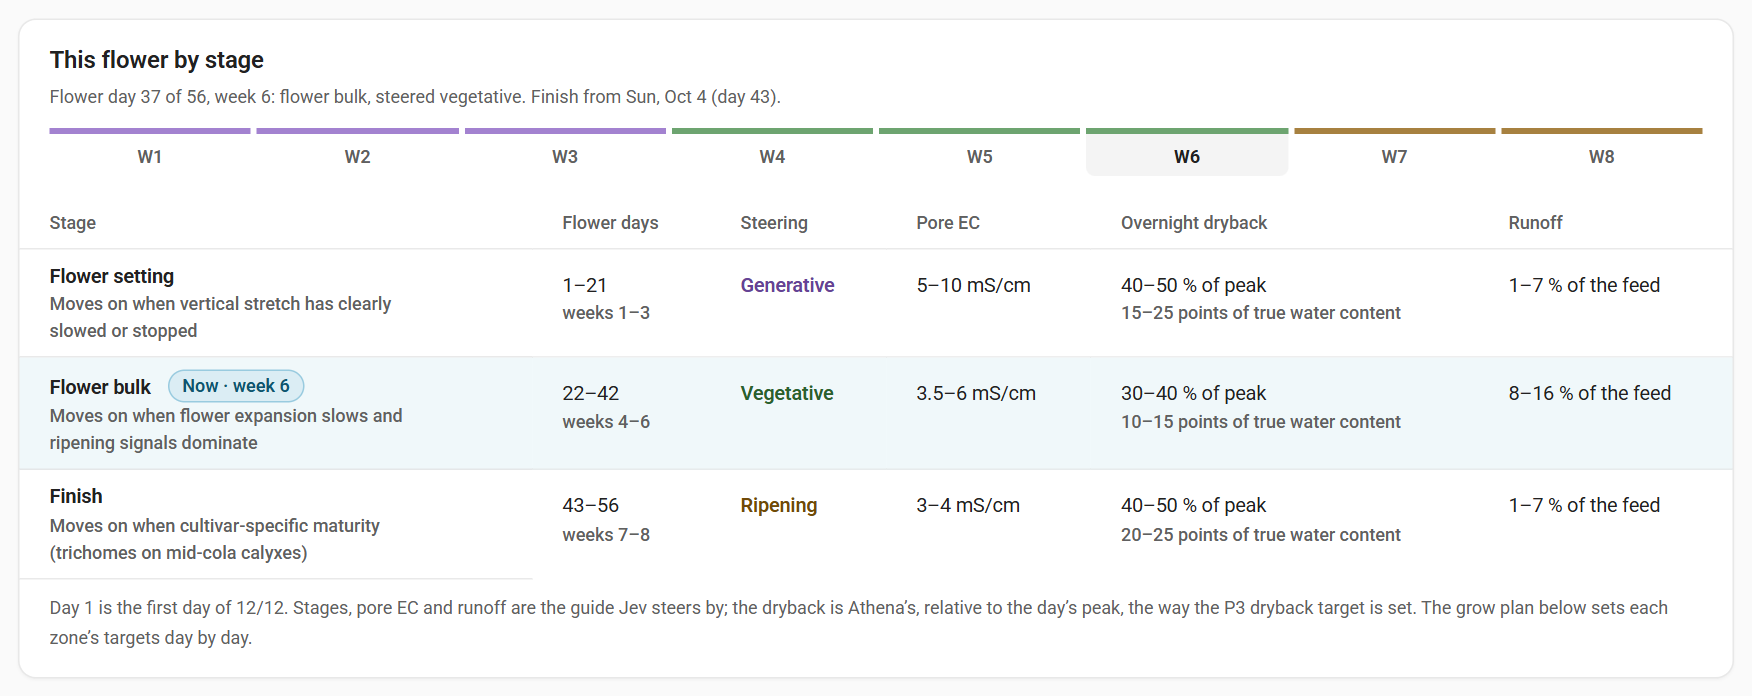
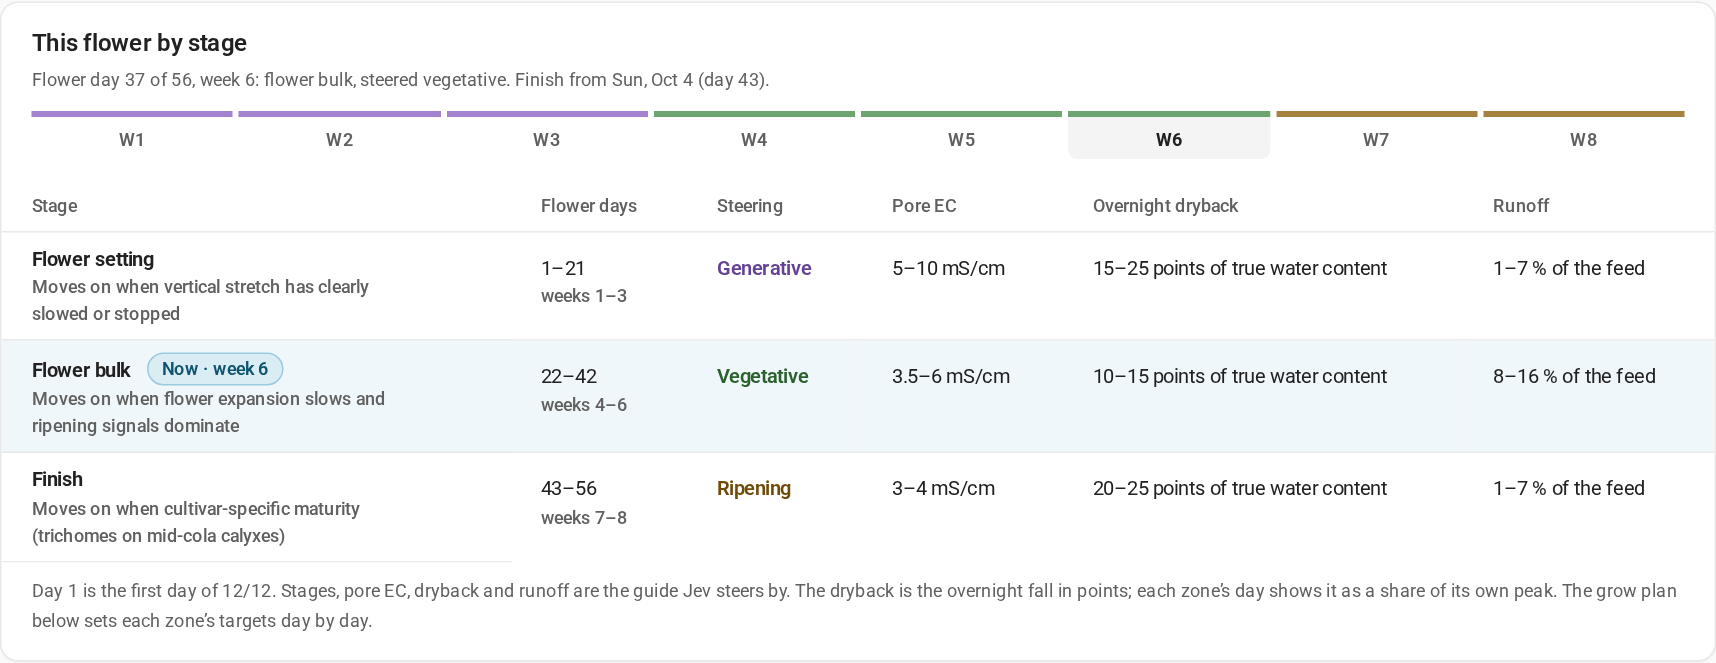
docs: recapture screenshots and describe the neutral dashboard words
Every screenshot is recaptured from the fictional demo. The user guide and
README describe the stage's reference dryback and the "In practice" help
instead of a vendor's chart and handbook, and the notifications example and
demo hint use neutral names.

diff --git a/docs/USER_GUIDE.md b/docs/USER_GUIDE.md
@@ -47,7 +47,7 @@ The demo is an isolated software demonstration. Its readings, history, example p
 5. Open **History**: filter the **Timeline**, read **Water use**, and open **Compare runs** to line up the demo's current run with the previous one by grow week.
 6. Open **Equipment › Setup** to try entity search, room/zone names and mapping review. Demo actions do not call your HA server.
 7. Open **Equipment › Dosing**: dose a pump, make a batch and stop it. The demo's pumps, valves and float move as real ones would, faster than real time.
-8. Open **Settings & help › Notifications**: tick a kind of alert for a phone, save it through the review, and send a test (the demo sends nothing). Add `&notify-user=callum` to the address to open it as Callum, who is not an administrator.
+8. Open **Settings & help › Notifications**: tick a kind of alert for a phone, save it through the review, and send a test (the demo sends nothing). Add `&notify-user=grower` to the address to open it as the grower, who is not an administrator.
 
 A production recipe library starts empty. Demo recipes are interface examples and are stored separately from production libraries. Existing demo libraries, including deliberately empty or corrupt ones, are left unchanged.
 
@@ -81,8 +81,8 @@ Today is one screen on a laptop and about two on a phone.
 
 Open a zone from its card on Today (or `#/zone/N`); the switcher at the top moves between zones.
 
-- **Today in numbers**: moisture and how fast it is drying, pore EC against the stage's band, water today (the zone's total and each plant's share, in the order Settings › Appearance chooses) with its share of the daily water limit (amber from 80 %: routine shots stop at the limit), shots and the last one's time, and the overnight dryback (last night's, or tonight's so far) against Athena's target for the stage. **Next** says what comes next in a few words.
-- **The day's chart**, from lights-on to the next lights-on, in the language of Athena's irrigation phase chart: the light cycle on top, Jev's decisions just below it (filled: code acted on it; outline: advice, no action or refused), P0 to P3 in columns with their badges along the bottom, field capacity as a dashed red line with the runoff zone of the zone's steering, the maintenance band from the re-water point to the peak target, the rescue floor overnight, VWC in blue with every shot as a dot where it started (a ring where a shot was held), the expected rest of the day dashed, and pore EC on the right-hand axis with the stage's band beside it. The VWC axis fits today's readings and the zone's targets. **Compare with** adds yesterday's line or the typical day of the last seven (the choice is remembered in the browser). Point at or tap the chart for the details of a shot, a decision, a phase or a moment.
+- **Today in numbers**: moisture and how fast it is drying, pore EC against the stage's band, water today (the zone's total and each plant's share, in the order Settings › Appearance chooses) with its share of the daily water limit (amber from 80 %: routine shots stop at the limit), shots and the last one's time, and the overnight dryback (last night's, or tonight's so far) against the stage's reference dryback: the stage's band in points of true water content, as a share of this zone's own peak. **Next** says what comes next in a few words.
+- **The day's chart**, from lights-on to the next lights-on, drawn as a phase reference chart: the light cycle on top, Jev's decisions just below it (filled: code acted on it; outline: advice, no action or refused), P0 to P3 in columns with their badges along the bottom, field capacity as a dashed red line with the runoff zone of the zone's steering, the maintenance band from the re-water point to the peak target, the rescue floor overnight, VWC in blue with every shot as a dot where it started (a ring where a shot was held), the expected rest of the day dashed, and pore EC on the right-hand axis with the stage's band beside it. The VWC axis fits today's readings and the zone's targets. **Compare with** adds yesterday's line or the typical day of the last seven (the choice is remembered in the browser). Point at or tap the chart for the details of a shot, a decision, a phase or a moment.
 - **Jev on this zone**: which judges act on it now, the P2 shot size and re-water point Jev may move and within what range (yours, and now), its last change, and its latest decisions here with a tick or a cross where it checked how they worked. **History** opens the timeline on this zone.
 - **Targets**: the zone's targets as the controller uses them, by phase, with Jev's range beside the values it manages. **Edit in Plan** opens them on Plan › Targets.
 - **Probes**: each probe behind the zone's moisture and pore EC, its reading, and whether the zone's reading uses it (see [Probes](#probes)).
@@ -94,7 +94,7 @@ Open a zone from its card on Today (or `#/zone/N`); the switcher at the top move
 When no grow plan owns the room, Targets edits the current targets. An armed grow plan replaces the inputs with its read-only targets; if its required snapshot is missing or stale, the targets show as unavailable rather than falling back to the manual values.
 
 1. Select a room, open **Plan › Targets**, and choose a zone (or **Room** for shared timing).
-2. The zone's targets are one table by phase: P0 morning dryback, P1 ramp-up, P2 maintenance and P3 overnight dryback. Each setting's **?** says what it is, when it acts, what it affects, and what the Athena Handbook says. Where Jev manages a value, its range sits beside it. With Jev's Setpoints judge on the room, the **Auto** switch says what it lets Jev do: Jev manages the P2 shot size and re-water point. The same switch lets the engine's own learner keep the P1 target and field capacity in step with the peak the zone reaches, at most 2 points higher a day and only after the day's ramp reached the target.
+2. The zone's targets are one table by phase: P0 morning dryback, P1 ramp-up, P2 maintenance and P3 overnight dryback. Each setting's **?** says what it is, when it acts, what it affects, and what common practice is. Where Jev manages a value, its range sits beside it. With Jev's Setpoints judge on the room, the **Auto** switch says what it lets Jev do: Jev manages the P2 shot size and re-water point. The same switch lets the engine's own learner keep the P1 target and field capacity in step with the peak the zone reaches, at most 2 points higher a day and only after the day's ramp reached the target.
 3. The other steering mode's own targets (its P3 dryback and EC targets) are one tap down. Substrate, plants, drippers, flow and safety limits are on **Equipment › Setup**.
 4. Type a value, or drag a target on the day's chart beside the table. Both edit the same local draft and respect the HA field's limits and step; the saved reference stays drawn for comparison, and the dark lines are what the zone's probe recorded.
 5. Select **Review changes**, inspect every before/after value, then apply. Only this step sends the reviewed values to HA. Readback errors and unapplied values remain visible; do not assume a partially failed batch succeeded. Drafts survive a refresh and a room change asks before discarding them.
@@ -103,7 +103,7 @@ Room changes can be previewed against a selected zone. A zone's own value takes 
 
 ## Plan › Schedule
 
-**This flower by stage** leads the page: the stages of this flower (flower setting, flower bulk, finish) with their flower days and weeks, what moves each on, steering, pore EC range, Athena's overnight dryback (40–50 % of the peak while setting, 30–40 % in the bulk, 40–50 % in the finish; as points of true water content under it) and runoff, today's week marked and when the next stage starts. Day 1 is the first day of 12/12; the arc is the one Jev steers by. **Validate preview** and **Arm plan** stay in view under it.
+**This flower by stage** leads the page: the stages of this flower (flower setting, flower bulk, finish) with their flower days and weeks, what moves each on, steering, pore EC range, overnight dryback in points of true water content (15–25 while setting, 10–15 in the bulk, 20–25 in the finish) and runoff, today's week marked and when the next stage starts. Day 1 is the first day of 12/12; the arc is the one Jev steers by. **Validate preview** and **Arm plan** stay in view under it.
 
 The planner schedules user-defined profiles by zone and grow day, under **Advanced**. The balance slider interpolates between the profile's explicit vegetative and generative endpoints; it does not select a built-in agronomic prescription. Equal endpoints intentionally produce equal targets at every slider position.
 
@@ -275,7 +275,7 @@ With no phone listed, every push goes to the controller app's `notify_service` o
 ## What the numbers mean
 
 - **Water per zone and per plant**: zone water is the controller's delivered estimate for all the zone's plants; per plant divides it by the plant count. Substrate litres describe the combined pot capacity; they are not water delivered. Runtime estimates multiply dripper flow by run time and respect the controller's duration limit.
-- **Dryback** is relative to the peak: (peak VWC − current VWC) ÷ peak VWC × 100. A 60 % peak and a 10 % dryback target mean 54 % VWC, not 50 %. Athena's overnight dryback targets are set the same way.
+- **Dryback** is relative to the peak: (peak VWC − current VWC) ÷ peak VWC × 100. A 60 % peak and a 10 % dryback target mean 54 % VWC, not 50 %.
 - **Steering balance**: 0 % uses the vegetative endpoint, 100 % the generative one, and values between blend their explicit parameters. Pot size and dripper flow convert shot percentages to volume and time.
 - **Planning versus history**: the day's projected curve is drawn from targets; recorded history comes from Home Assistant's Recorder. Neither an event acknowledgement nor a modelled curve proves physical delivery.
 - **Run comparisons** align runs by grow age and stop the previous run at the current one's age. A saved target reference shows when it was captured; backdating a run does not recreate old targets or readings removed by Recorder retention.

diff --git a/docs/SCREENSHOTS.md b/docs/SCREENSHOTS.md
@@ -2,7 +2,7 @@
 
 [Open the interactive demo](https://jaketherabbit.github.io/HA-Irrigation-Strategy/dashboard.html?demo=1).
 
-Captured on 25 September 2026 from the compiled application with isolated demo data and inherited Home Assistant dark-theme variables. These are current UI examples, not photographs or live facility readings.
+Captured on 15 October 2026 from the compiled application with isolated demo data and inherited Home Assistant dark-theme variables. These are current UI examples, not photographs or live facility readings.
 
 ## Overview
 
@@ -64,4 +64,4 @@ Captured on 25 September 2026 from the compiled application with isolated demo d
 
 ![Mobile room overview](../img/mobile-overview.png)
 
-Reproduce these captures by building the frontend and running the browser checks in `frontend/scripts/` (`verify-workspace.mjs`, `verify-steering-visuals.mjs`, `verify-dashboard.mjs`, `verify-tank-status.mjs` and `verify-recipe-library.mjs`); each writes its screenshots into `img/`.
+Reproduce these captures by building the frontend and running the browser checks in `frontend/scripts/` (`verify-workspace.mjs`, `verify-steering-visuals.mjs`, `verify-dashboard.mjs`, `verify-tank-status.mjs` and `verify-recipe-library.mjs`); each writes its screenshots into `img/`. The README's tour (`img/jev-*.png`) comes from `capture-readme.mjs`.

diff --git a/docs/NOTIFICATIONS.md b/docs/NOTIFICATIONS.md
@@ -60,7 +60,7 @@ docs/error-codes.json is in no kind at all.
   "recipients": [
     {
       "service": "notify.mobile_app_pixel_7",   // any notify.* service; the page offers the site's phones first
-      "name": "Callum's phone",                   // shown on the page; defaults to the device name
+      "name": "Grower's phone",                   // shown on the page; defaults to the device name
       "user_id": "7f21…",                         // the Home Assistant user the phone belongs to, when known
       "kinds": ["stock", "dosing"],               // ids from the table above
       "rooms": [],                                // room prefixes ("" = the default room, "f1_"); empty = every room

diff --git a/README.md b/README.md
@@ -108,7 +108,7 @@ On a phone, Today takes about two screens. The first:
 
 ### A zone's page: what happened today, and why
 
-Tap a zone's card to open its page. Its chart draws the day the way Athena's Grow Guide draws an irrigation day:
+Tap a zone's card to open its page. Its chart draws the day as a phase reference chart:
 
 ![A zone's day chart: moisture, pore EC, every shot and Jev's decisions, from lights-on to the next lights-on](https://raw.githubusercontent.com/JakeTheRabbit/HA-Crop-Steering-Jev/main/img/jev-zone-day.png)
 
